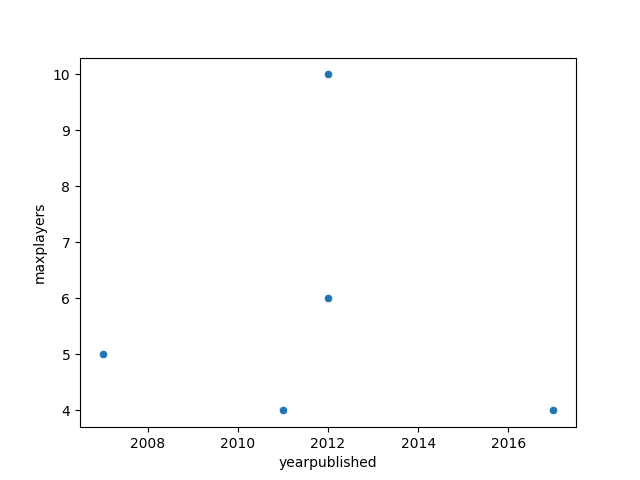
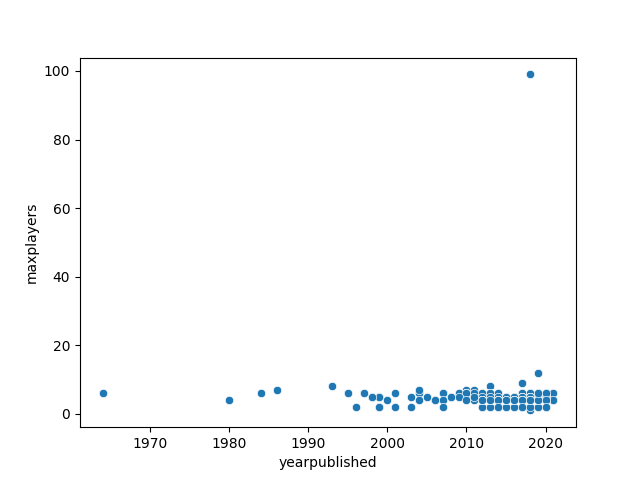
get games by username

diff --git a/viz/utils.py b/viz/utils.py
@@ -2,29 +2,51 @@ import urllib.request as rq
 import xml.etree.ElementTree as et
 import pandas as pd
 
-def fetch_bgg_data(game_ids: list):
+def get_game_ids_by_username(username: str):
+    """
+    Fetch list of all game ids OWNED by given player and return as list.
+
+    returns: list of ids
+    """
+
+    data = rq.urlopen(f'https://boardgamegeek.com/xmlapi/collection/{username}?own=1')
+    root = et.parse(data).getroot()
+    ids = [item.attrib['objectid'] for item in root]
+
+    return ids
+
+def fetch_data_by_ids(game_ids: list):
+    """
+    Fetch complete game data for all listed games.
+
+    game_ids ex: [486, 68413, 84015, 840]
+    returns: xml string from BGG api
+    """
+
     result = ""
     for v in game_ids:
         result += f'{v},'
     return rq.urlopen(f'https://boardgamegeek.com/xmlapi/boardgame/{result}')
 
-def parse_xml(xml_data):
-    cols = ["name", "yearpublished", "minplayers", "maxplayers"]
+def parse_xml(xml_data, fields: list):
+    """
+    Pull desired fields from provided XML and return a dataframe of the results.
+
+    returns: pandas dataframe
+    """
+
     rows = []
-
     root = et.parse(xml_data).getroot()
-    for i in root:
-        name = i.find("name").text
-        year = int(i.find("yearpublished").text)
-        minplayers = int(i.find("minplayers").text)
-        maxplayers = int(i.find("maxplayers").text)
 
-        rows.append({
-            "name": name,
-            "yearpublished": year,
-            "minplayers": minplayers,
-            "maxplayers": maxplayers,
-        })
+    for item in root:
+        entry = {}
+        for field in fields:
+            try:
+                entry[field] = int(item.find(field).text)
+            except Exception as e:
+                print(e)
+                entry[field] = item.find(field).text 
+        rows.append(entry)
 
-    df = pd.DataFrame(rows, columns=cols)
+    df = pd.DataFrame(rows, columns=fields)
     return df

diff --git a/viz/views.py b/viz/views.py
@@ -6,15 +6,40 @@ import pandas as pd
 import seaborn as sns
 import matplotlib.pyplot as plt
 
-from viz.utils import fetch_bgg_data, parse_xml
+from viz.utils import fetch_data_by_ids, parse_xml, get_game_ids_by_username
 
-games = {"Agricola":31260, "Avalon":128882, "Azul":230802, "Keyflower":122515, "Kingdom Builder":107529}
+games = {
+        "Agricola":31260, 
+        "Avalon":128882, 
+        "Azul":230802, 
+        "Keyflower":122515, 
+        "Kingdom Builder":107529
+}
+
+supported_fields = [
+    'yearpublished',
+    'minplayers',
+    'maxplayers',
+    'playingtime',
+    'minplaytime',
+    'maxplaytime',
+    'age',
+    'name',
+    'description',
+    'thumbnail',
+    'image',
+    'boardgamepublisher',
+]
 
 def index(request):
-    df = parse_xml(fetch_bgg_data(games.values()))
+    ids = get_game_ids_by_username('seepieceeggshell')
+    games_xml = fetch_data_by_ids(ids)
+    fields = ["name", "yearpublished", "minplayers", "maxplayers"]
+
+    df = parse_xml(games_xml, fields)
 
     print(df)
 
     sns.scatterplot(data=df, x='yearpublished', y='maxplayers')
-    plt.savefig(f'viz/static/viz/test.png') # save file to be referenced in index.html
+    plt.savefig(f'viz/static/viz/test.png') # save as file to be referenced in index.html
     return render(request, 'viz/index.html') 
